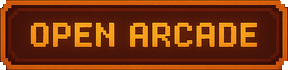
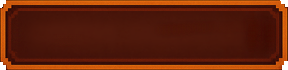
Fix: action button

Changed region(s): [[0.4375, 0.3143, 0.9062, 0.6857], [0.0938, 0.3143, 0.4062, 0.6857]]

diff --git a/src/app/test/test.css b/src/app/test/test.css
@@ -1,0 +1,28 @@
+.test-btn1 {
+  border-image-slice: 103 111 99 118 fill;
+  border-image-width: 20px 20px 20px 20px;
+  border-image-outset: 0px 0px 0px 0px;
+  border-image-repeat: stretch stretch;
+  border-image-source: url("/azesq.png");
+}
+
+.test-btn2 {
+  border-image-slice: 52 54 52 54 fill;
+  border-image-width: 20px 20px 20px 20px;
+  border-image-outset: 0px 0px 0px 0px;
+  border-image-repeat: stretch stretch;
+  border-image-source: url("/qs.png");
+  /* box-shadow: 10px 19px 50px 50px red; */
+}
+
+.test-btn3 {
+  border-image-slice: 19 19 19 19 fill;
+  border-image-width: 20px 20px 20px 20px;
+  border-image-outset: 0px 0px 0px 0px;
+  border-image-repeat: stretch stretch;
+  border-image-source: url("/action-button.png");
+}
+
+.test-btn3:hover {
+  box-shadow: none;
+}

diff --git a/src/components/button/button.css b/src/components/button/button.css
@@ -99,23 +99,17 @@
   position: relative;
   overflow: hidden;
   display: inline-block;
-  padding: 0.4rem 2rem;
+  padding: 0.9rem 2.5rem;
   color: #ffb84d;
-  border: 6px;
-  background: #3e211e;
-  /* background-image: url("/buttonBackgroundContent.png");
-  background-size: 100% 100%;
-  background-repeat: no-repeat; */
+
   border-style: solid;
   background-clip: padding-box;
-  border-image-slice: 53 50 55 50;
+  border-image-slice: 19 19 19 19 fill;
   border-image-width: 14px;
   border-image-outset: 0px 0px 0px 0px;
   border-image-repeat: stretch stretch;
-  border-image-source: url("/button-hogwarts.png");
-}
-
-.action-btn {
+  border-image-source: url("/action-button.png");
+  width: 100%;
 }
 
 .action-text {

diff --git a/src/app/test/page.tsx b/src/app/test/page.tsx
@@ -1,0 +1,19 @@
+import "./test.css";
+
+const page = () => {
+  return (
+    <div className="bg-gray-500 h-screen flex gap-4 ">
+      <div>aze</div>
+      <button className="test-btn2 h-16 w-32">helooo</button>
+
+      <button className="test-btn3 h-16 w-32  hover:shadow-none hover:translate-x-[3px] hover:translate-y-[3px] ">
+        qsda
+      </button>
+      <button className="size-fit px-6 py-2 font-medium bg-indigo-500 text-white w-fit transition-all shadow-[3px_3px_0px_black] hover:shadow-none hover:translate-x-[3px] hover:translate-y-[3px]">
+        Hover me
+      </button>
+    </div>
+  );
+};
+
+export default page;

diff --git a/src/components/houseCards/cardContainer.css b/src/components/houseCards/cardContainer.css
@@ -5,7 +5,7 @@
   height: 150px;
   width: 150px;
   background-clip: border-box;
-  border-image-slice: 50 50 50 50;
+  border-image-slice: 50 50 50 50 fill;
   border-image-width: 15px 15px 15px 15px;
   border-image-outset: 0px 0px 0px 0px;
   border-image-repeat: stretch stretch;
@@ -52,9 +52,9 @@
 }
 
 .card-content {
-  background-color: #ffc86b;
+  /* background-color: red; */
   height: 100%;
-  border-radius: 8px;
+  border-radius: 3px;
 }
 
 .hat-message {
